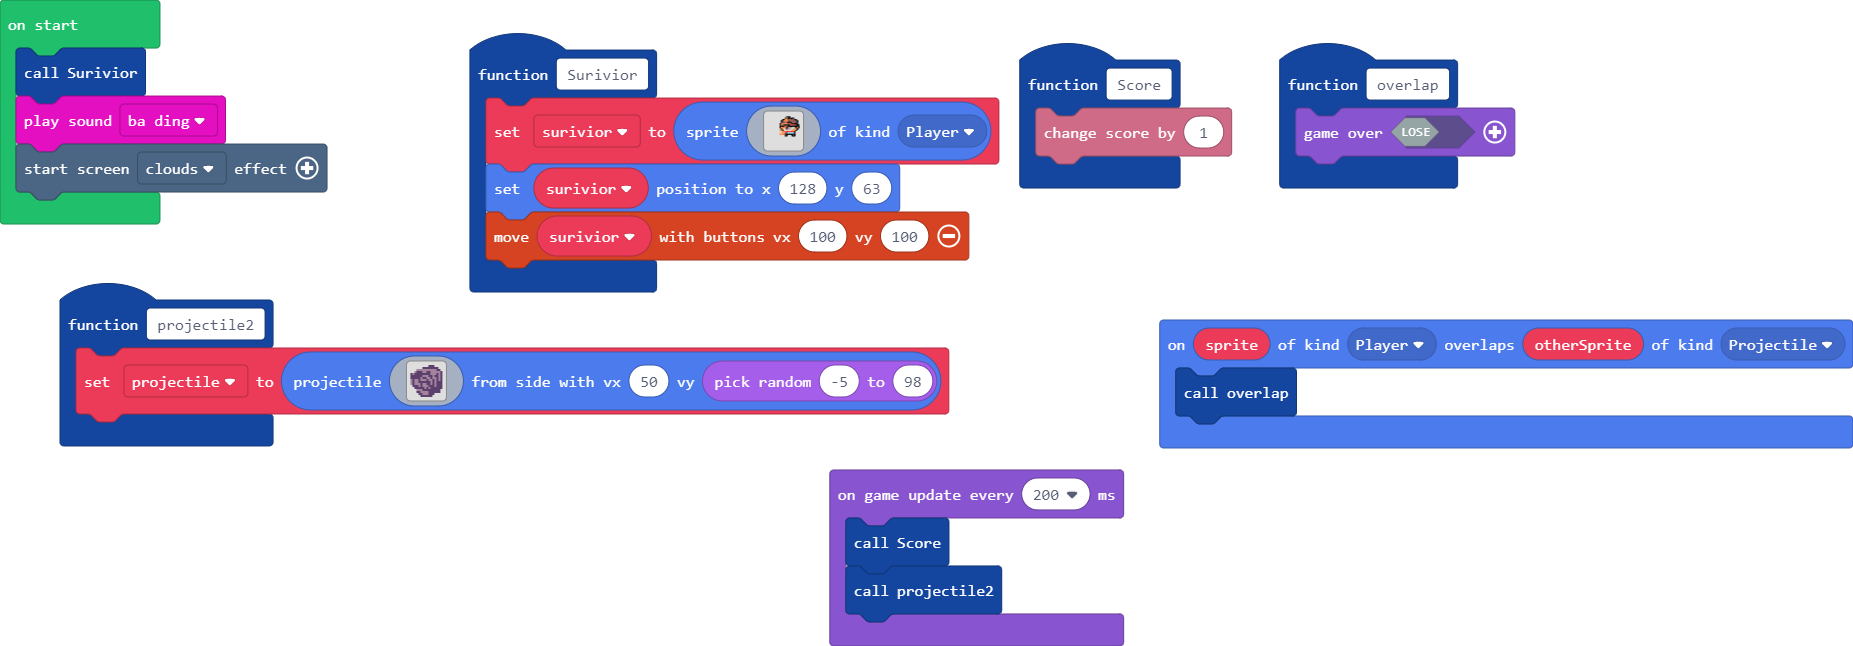
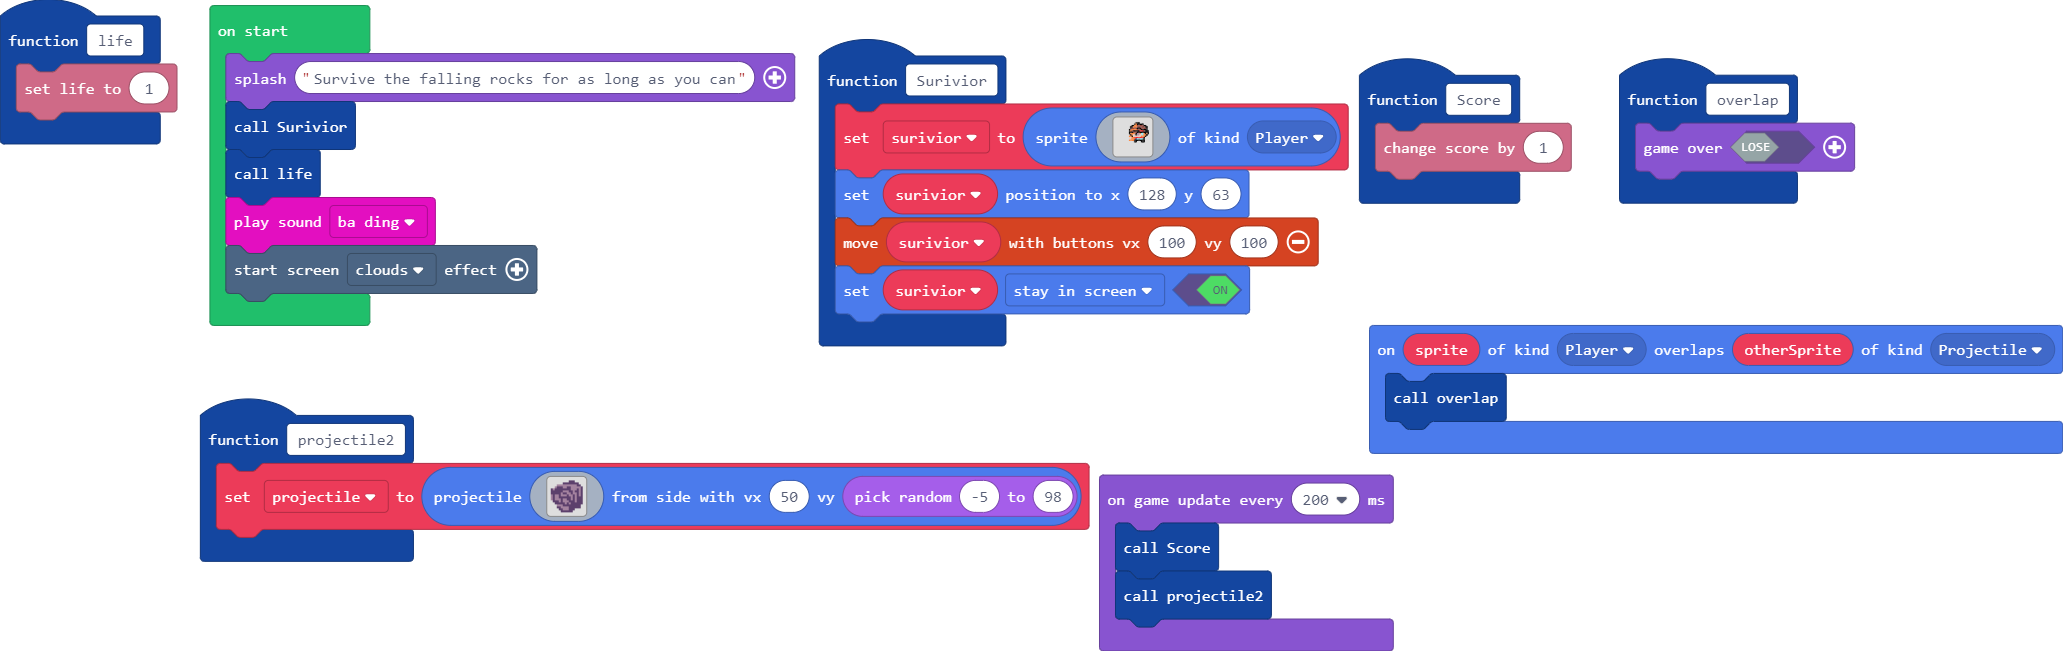
Update main.blocks, main.ts

diff --git a/main.ts b/main.ts
@@ -1,3 +1,6 @@
+function life () {
+    info.setLife(1)
+}
 function Score () {
     info.changeScoreBy(1)
 }
@@ -36,6 +39,7 @@ function Surivior () {
 `, SpriteKind.Player)
     surivior.setPosition(128, 63)
     controller.moveSprite(surivior, 100, 100)
+    surivior.setFlag(SpriteFlag.StayInScreen, true)
 }
 function projectile2 () {
     projectile = sprites.createProjectileFromSide(img`
@@ -59,7 +63,9 @@ b c b b b c b b c c b c b c c c
 }
 let projectile: Sprite = null
 let surivior: Sprite = null
+game.splash("Survive the falling rocks for as long as you can")
 Surivior()
+life()
 music.baDing.play()
 effects.clouds.startScreenEffect()
 game.onUpdateInterval(200, function () {
